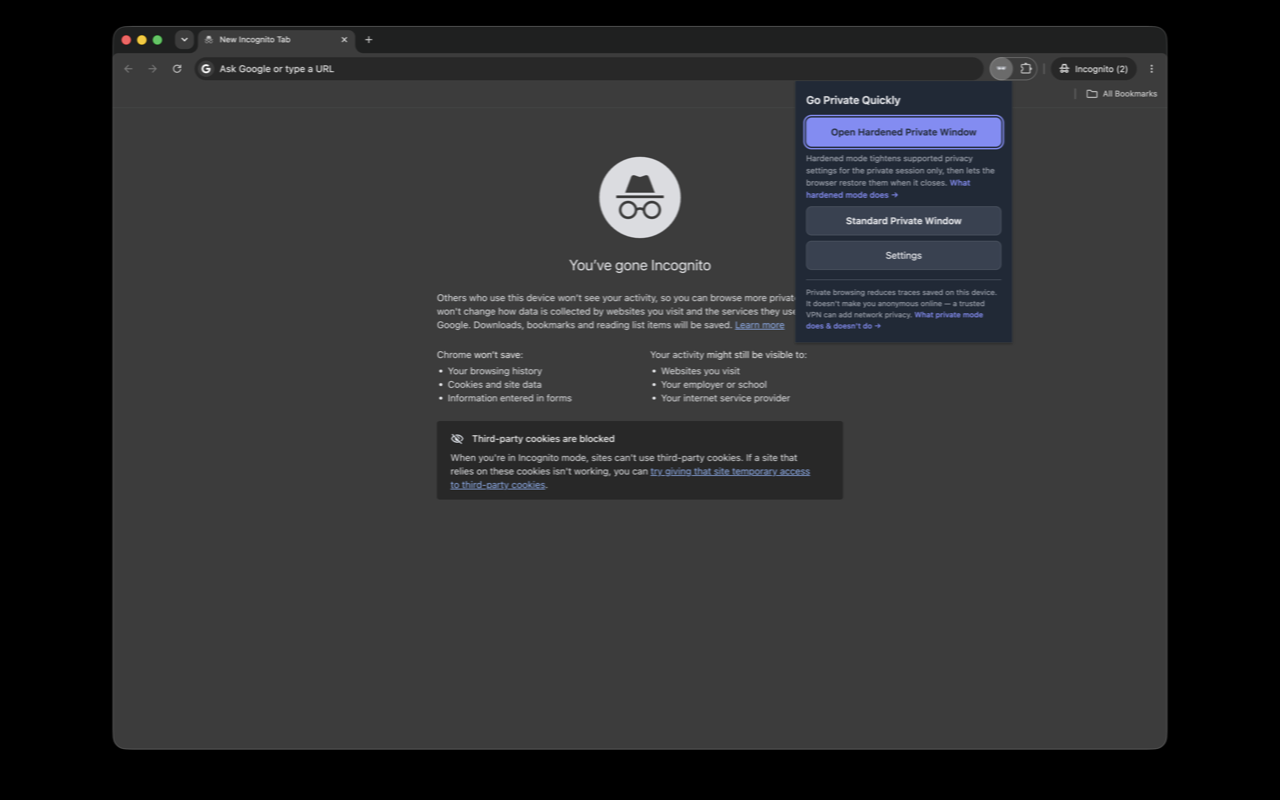
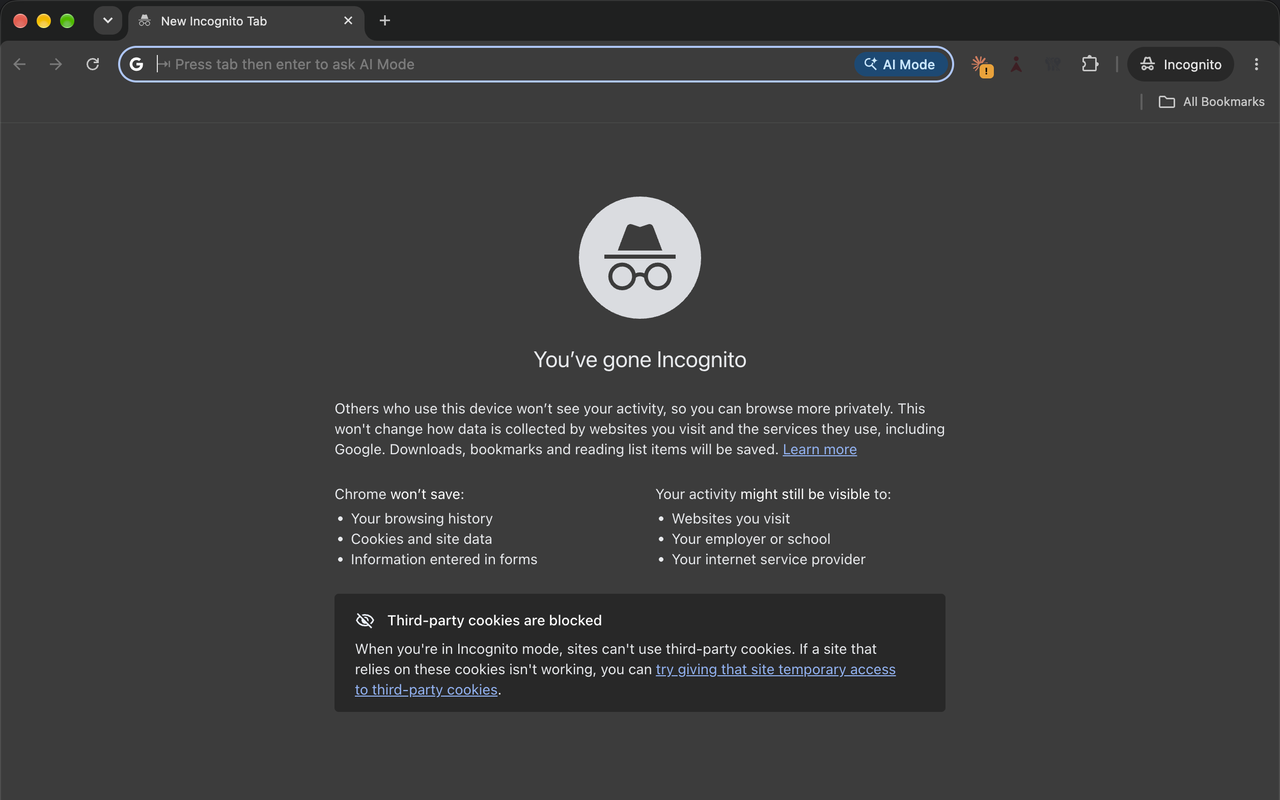
Store images for the 1.3.0 Chrome and Edge submissions
The 1.2.0 screenshots showed the popup and settings page that 1.3.0 removed.
These are the images actually submitted on 2026-10-07, kept here so the next
release starts from what the stores have rather than from a Desktop copy.

diff --git a/store-assets/chrome-web-store/listing.md b/store-assets/chrome-web-store/listing.md
@@ -116,20 +116,16 @@ Privacy Policy URL (required field):
 
 ## Screenshots — 1280×800 PNG (exactly)
 
-**Recapture before submitting 1.3.0.** The three files in this folder
-(`chrome-1.png`, `chrome-2.png`, `chrome-3.png`) are from 1.2.0 and show the
-removed popup and settings page. Replace them with 1.3.0 captures, in this
-order:
+Submitted with 1.3.0 (2026-10-07), in this order:
 
-1. **chrome-1.png — private window** — Chrome's "You've gone Incognito" tab with the silver GPQ mask in the toolbar. Caption: "One click → a new incognito window. No popup, no menu."
-2. **chrome-2.png — icon state** — a normal window showing the full-color mask beside a private window showing the silver mask. Caption: "The toolbar icon shows when you're private."
-3. **chrome-3.png — welcome page** — the one-time setup page showing "Allow in Incognito". Caption: "One-time setup, then it's one click forever. Zero tracking, zero network requests."
+1. **chrome-1.png — welcome page** — the one-time setup page showing "Allow in Incognito". Leads, because it shows what the extension is.
+2. **chrome-2.png — private window** — Chrome's "You've gone Incognito" tab. The GPQ mask is too small to read at store size; a capture with the mask pinned and visible would be stronger.
 
 Screenshots: full-bleed window content, square corners, no padding or
 shadow. Capture from the store build (not Developer mode / unpacked).
 
-**Small promo tile (440×280) is required by CWS.** Keep a copy in this
-folder as `promo-small.png`.
+**Small promo tile (440×280) is required by CWS.** `promo-small.png` — the
+colour mask on dark indigo with the name and "One click to a private window".
 
 ## Promo video (optional, recommended)
 

diff --git a/store-assets/edge-add-ons/listing.md b/store-assets/edge-add-ons/listing.md
@@ -85,18 +85,17 @@ Privacy Policy: https://codecraftedapps.com/extensions/go-private-quickly/privac
 Terms of Use: https://codecraftedapps.com/extensions/go-private-quickly/terms.html
 ```
 
-**Extension logo** (required; 1:1, 300×300 recommended, 128×128 minimum):
-`src/icons/venetian-mask/icon-128.png` meets the minimum. A 300×300 export
-from the original artwork would look sharper.
+**Extension logo** (required; 1:1, 300×300 recommended): `logo-300.png`,
+exported from `tools/icon-sources/venetian-mask-inactive.png` (the colour mask).
 
-**Screenshots** (optional, up to 6, 640×480 or 1280×800): don't reuse the
-current Chrome set in `../chrome-web-store/` — it is from 1.2.0 and shows the
-removed popup and settings page. Use 1.3.0 Edge captures (an InPrivate window
-with the silver mask; the welcome page showing "Allow in InPrivate"), or skip
-screenshots until they exist.
+**Screenshots** (optional, up to 6, 640×480 or 1280×800), submitted with
+1.3.0 (2026-10-07): `edge-1.png` (welcome page showing "Allow in InPrivate")
+and `edge-2.png` (Edge's InPrivate page). The GPQ icon isn't in edge-2's
+toolbar because the capture predates allowing it in InPrivate; recapture with
+the silver mask pinned for a stronger second shot.
 
-**Small promotional tile** (optional, 440×280) and **large promotional tile**
-(optional, 1400×560): none prepared.
+**Small promotional tile** (optional, 440×280): `promo-small.png`, same as the
+Chrome tile. **Large promotional tile** (optional, 1400×560): none.
 
 **Search terms** (max 7 terms, 30 chars each, 21 words total):
 
